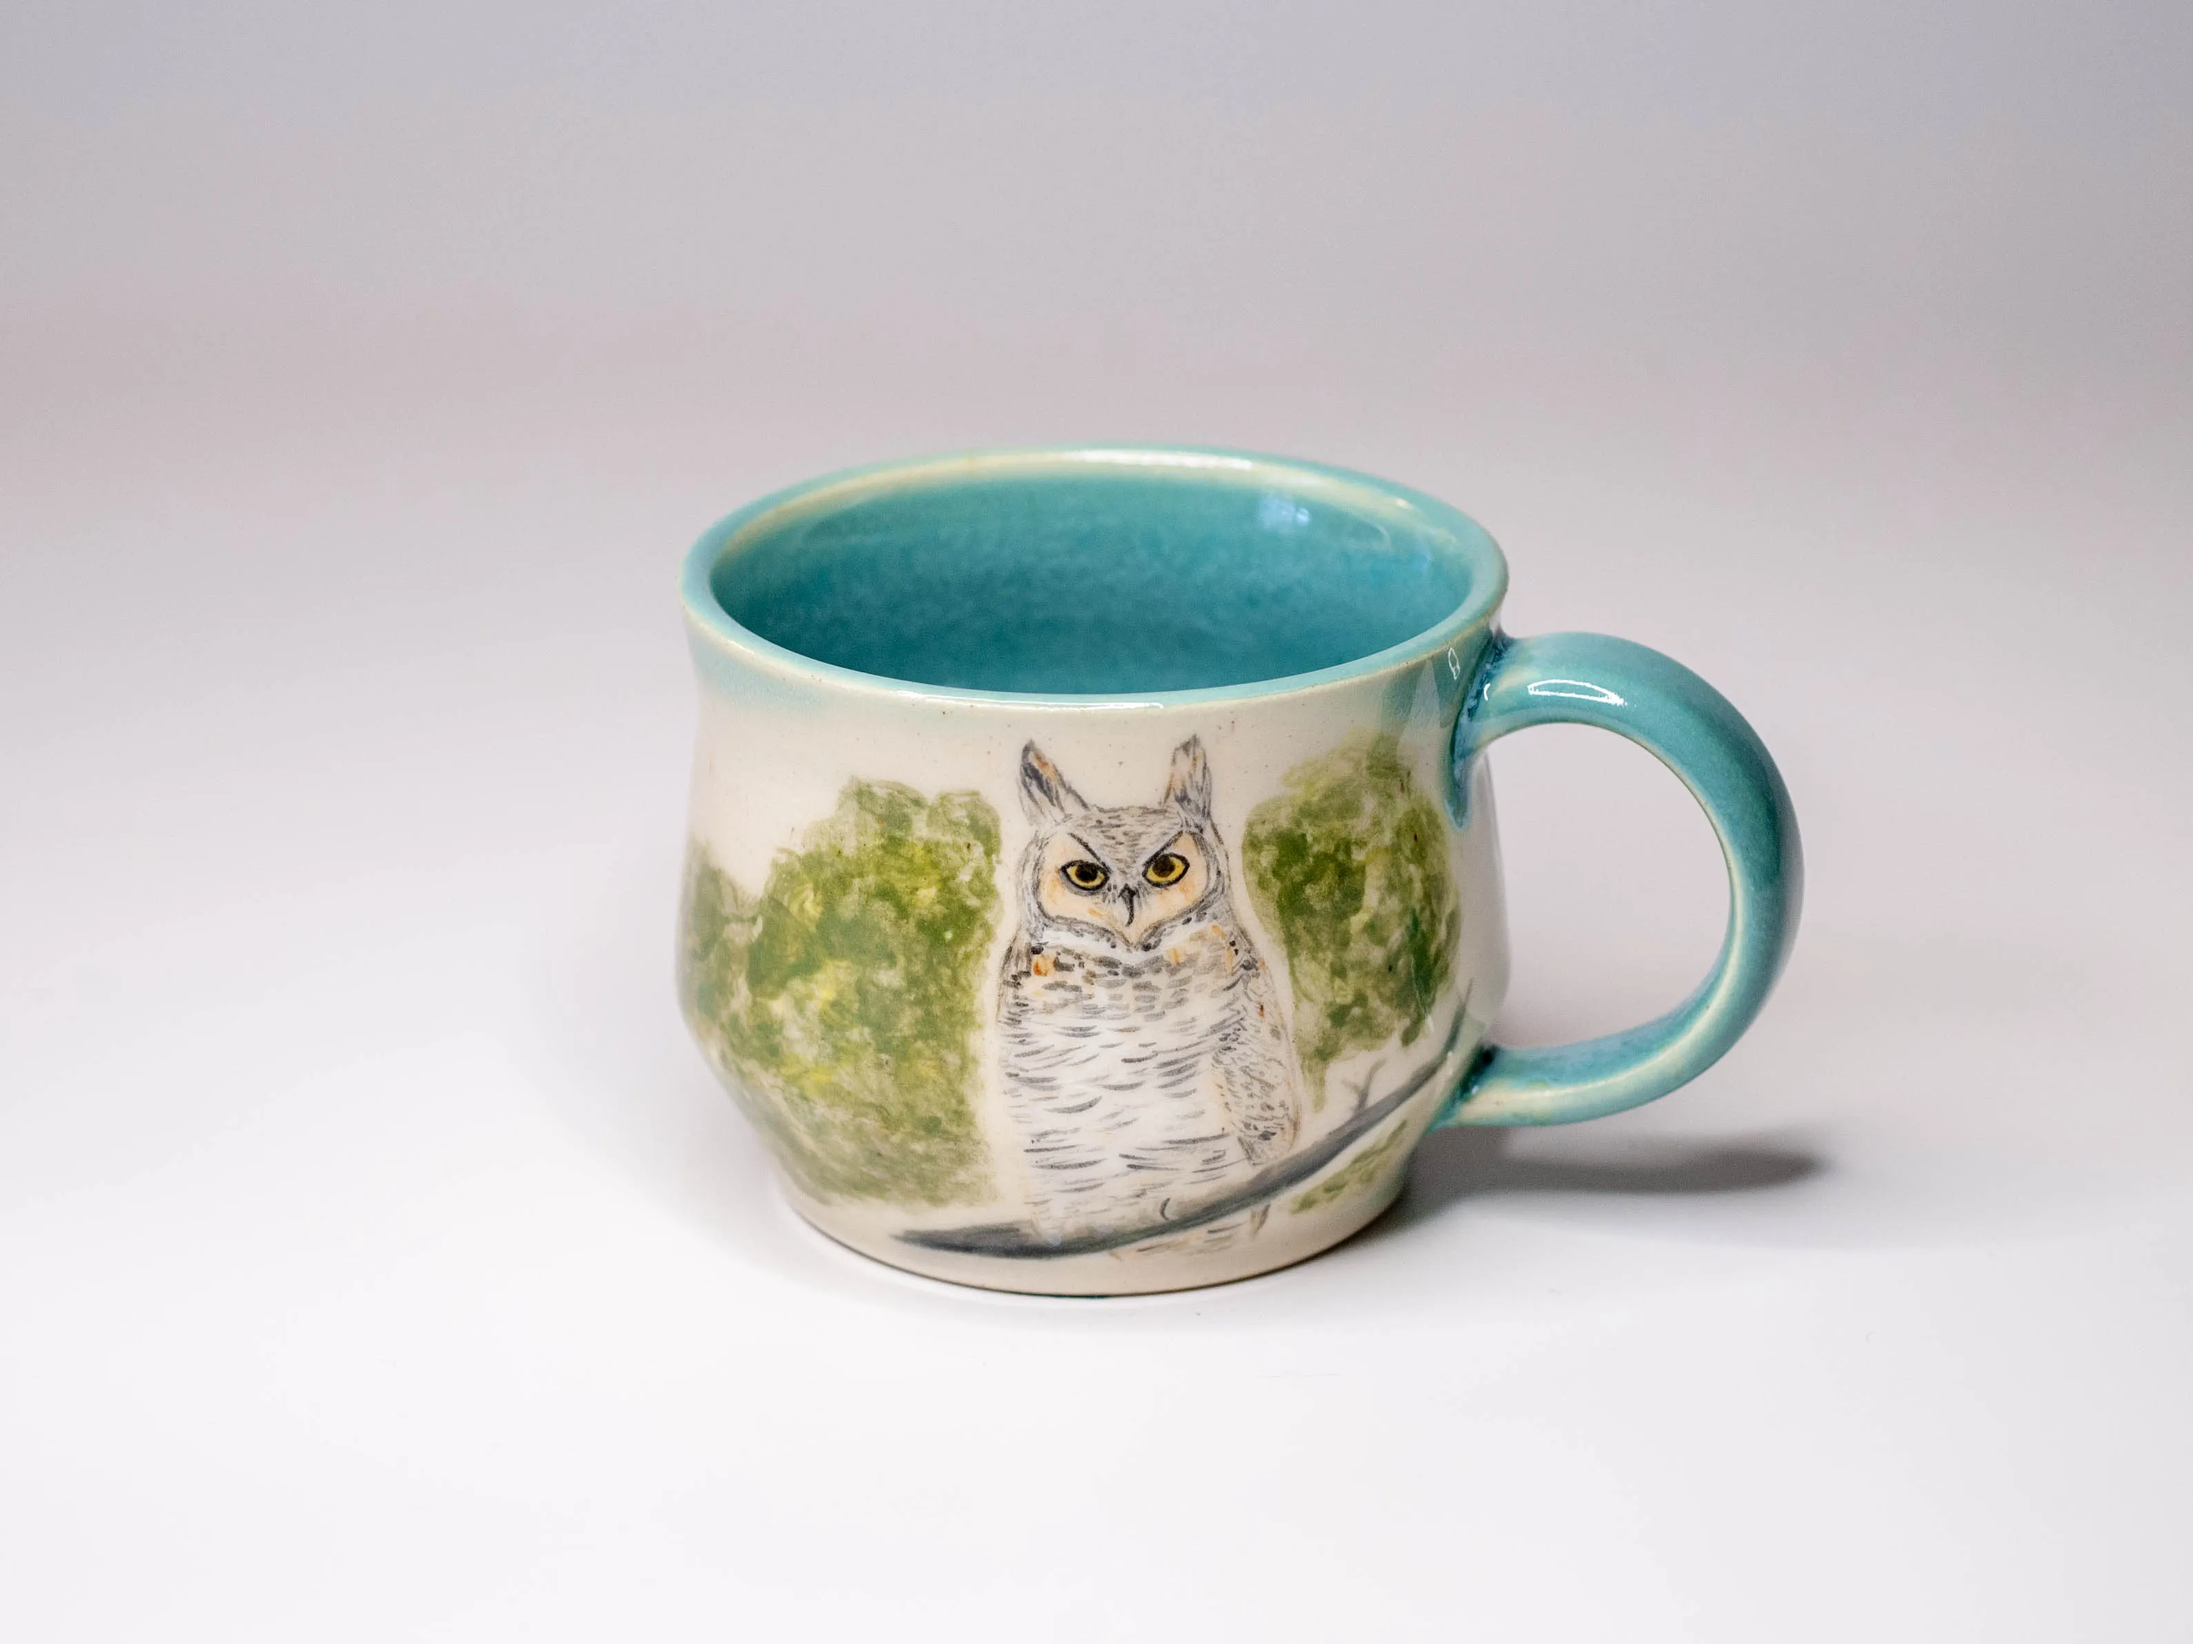
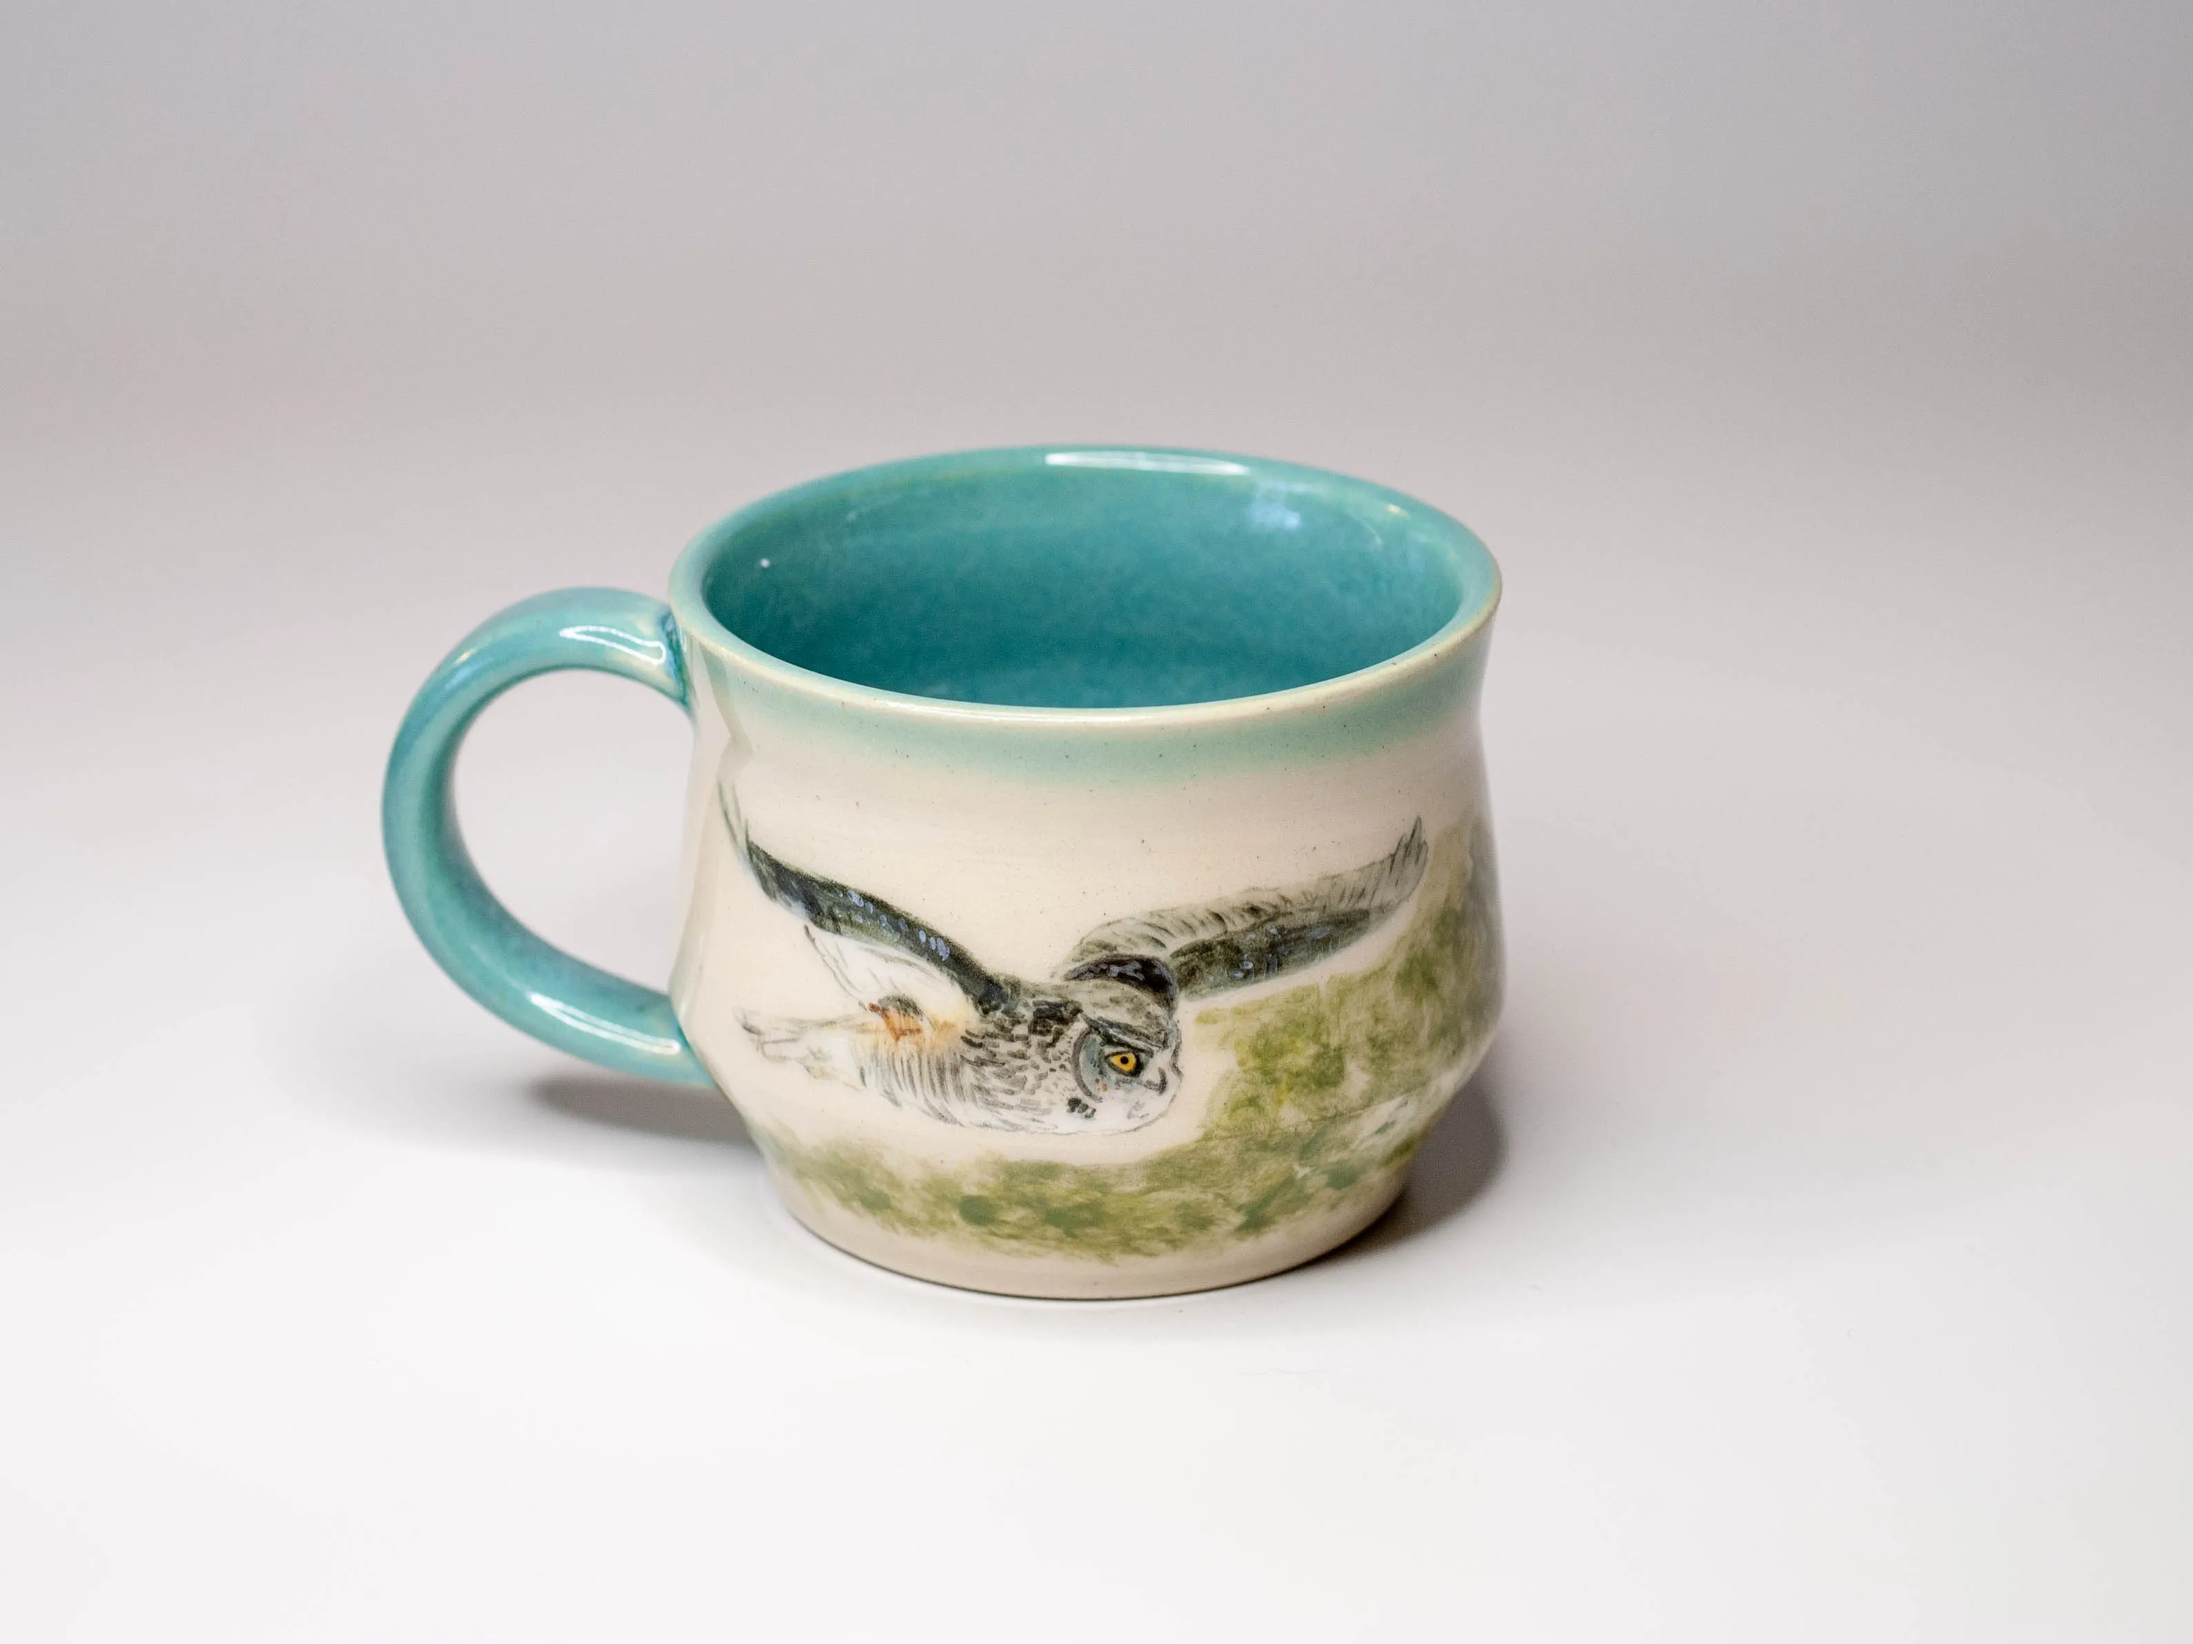
update pottery posts

Changed region(s): [[0.1557, 0.2483, 0.8406, 0.807]]

diff --git a/content/pottery/m12/index.md b/content/pottery/m12/index.md
@@ -10,7 +10,7 @@ subtitle:
 tags:
 title: "Great Horned Owl Mug"
 ---
-
+A ceramic mug thrown on the pottery wheel with a great horned owl sitting on a branch, while another soars in the air on the back side. 
 
 ![Great Horned Owl Mug](featured.webp)
-![Great Horned Owl Mug Other Side](featured2.webp)
+![Great Horned Owl Mug Back](featured2.webp)

diff --git a/content/pottery/m10/index.md b/content/pottery/m10/index.md
@@ -5,11 +5,6 @@ date: "2024-04-19"
 draft: false
 excerpt: "A little bee in a field of lavender"
 layout: single
-links:
-- icon: shopping-bag
-  icon_pack: fas
-  name: Etsy
-  url: "https://primspottery.etsy.com/listing/1710672238"
 subtitle: 
 tags:
 title: "Lavender Spoon Rest"

diff --git a/content/pottery/m5/index.md b/content/pottery/m5/index.md
@@ -5,11 +5,6 @@ date: "2023-12-12"
 draft: false
 excerpt: "A derpy looking cow"
 layout: single
-links:
-- icon: shopping-bag
-  icon_pack: fas
-  name: Etsy
-  url: "https://primspottery.etsy.com/listing/1656934600"
 subtitle: 
 tags:
 title: "Cow Mug"

diff --git a/content/pottery/m8/index.md b/content/pottery/m8/index.md
@@ -6,10 +6,6 @@ draft: false
 excerpt: "A coop animal that lays eggs"
 layout: single
 links:
-- icon: shopping-bag
-  icon_pack: fas
-  name: Etsy
-  url: "https://primspottery.etsy.com/listing/1694883302"
 subtitle: 
 tags:
 title: "Chicken Mug"
